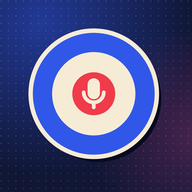
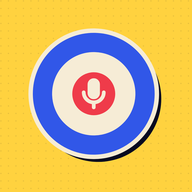
Labo : icône sur fond jaune
Claude-Session: https://claude.ai/code/session_01HpQZiBfSRWdSJ4Y8TpXV19

diff --git a/labo/index.html b/labo/index.html
@@ -8,9 +8,9 @@
 <meta name="mobile-web-app-capable" content="yes">
 <meta name="apple-mobile-web-app-status-bar-style" content="black-translucent">
 <meta name="apple-mobile-web-app-title" content="Labo">
-<link rel="manifest" href="manifest.json?v=5">
-<link rel="apple-touch-icon" href="icon-180.png?v=5">
-<link rel="icon" href="icon-192.png?v=5">
+<link rel="manifest" href="manifest.json?v=6">
+<link rel="apple-touch-icon" href="icon-180.png?v=6">
+<link rel="icon" href="icon-192.png?v=6">
 <title>Le Labo — maquettes de canapé</title>
 <link rel="preconnect" href="https://fonts.googleapis.com">
 <link href="https://fonts.googleapis.com/css2?family=Bungee&family=Space+Grotesk:wght@400;500;700&display=swap" rel="stylesheet">

diff --git a/labo/sw.js b/labo/sw.js
@@ -1,5 +1,5 @@
 /* Le Labo : petit service worker — l'appli s'ouvre même avec un réseau capricieux */
-const CACHE = 'labo-v11';
+const CACHE = 'labo-v12';
 self.addEventListener('install', e => self.skipWaiting());
 self.addEventListener('activate', e => e.waitUntil(caches.keys().then(ks => Promise.all(ks.filter(k => k !== CACHE).map(k => caches.delete(k)))).then(() => self.clients.claim())));
 self.addEventListener('fetch', e => {
